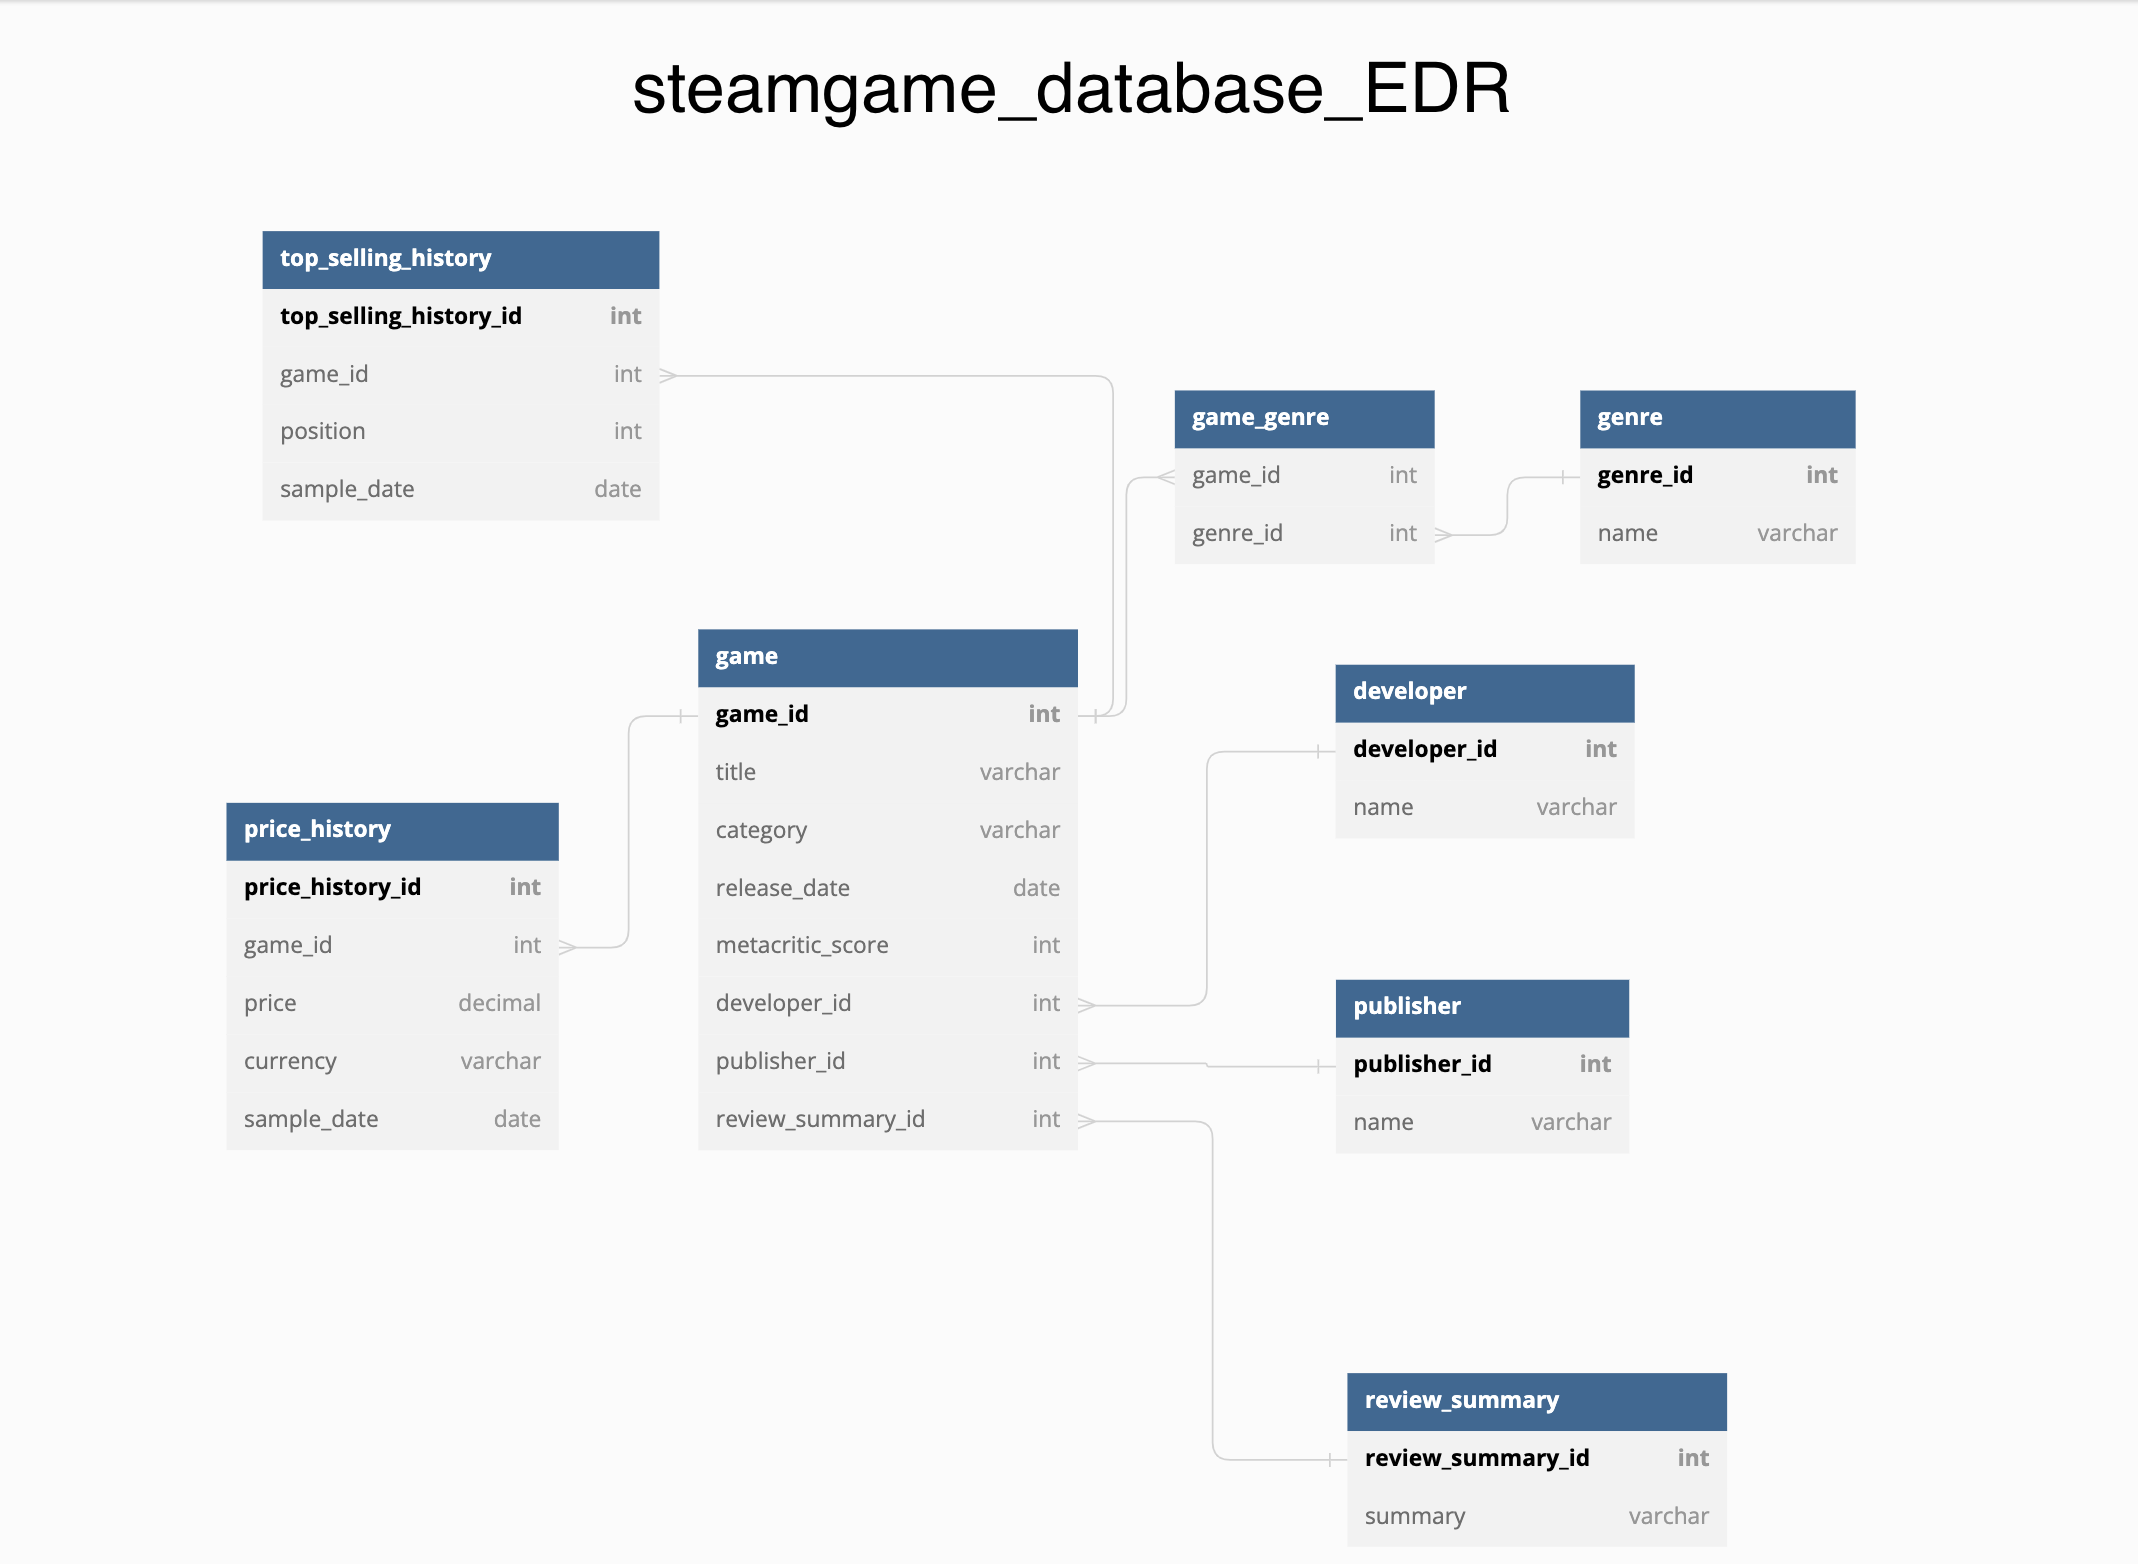
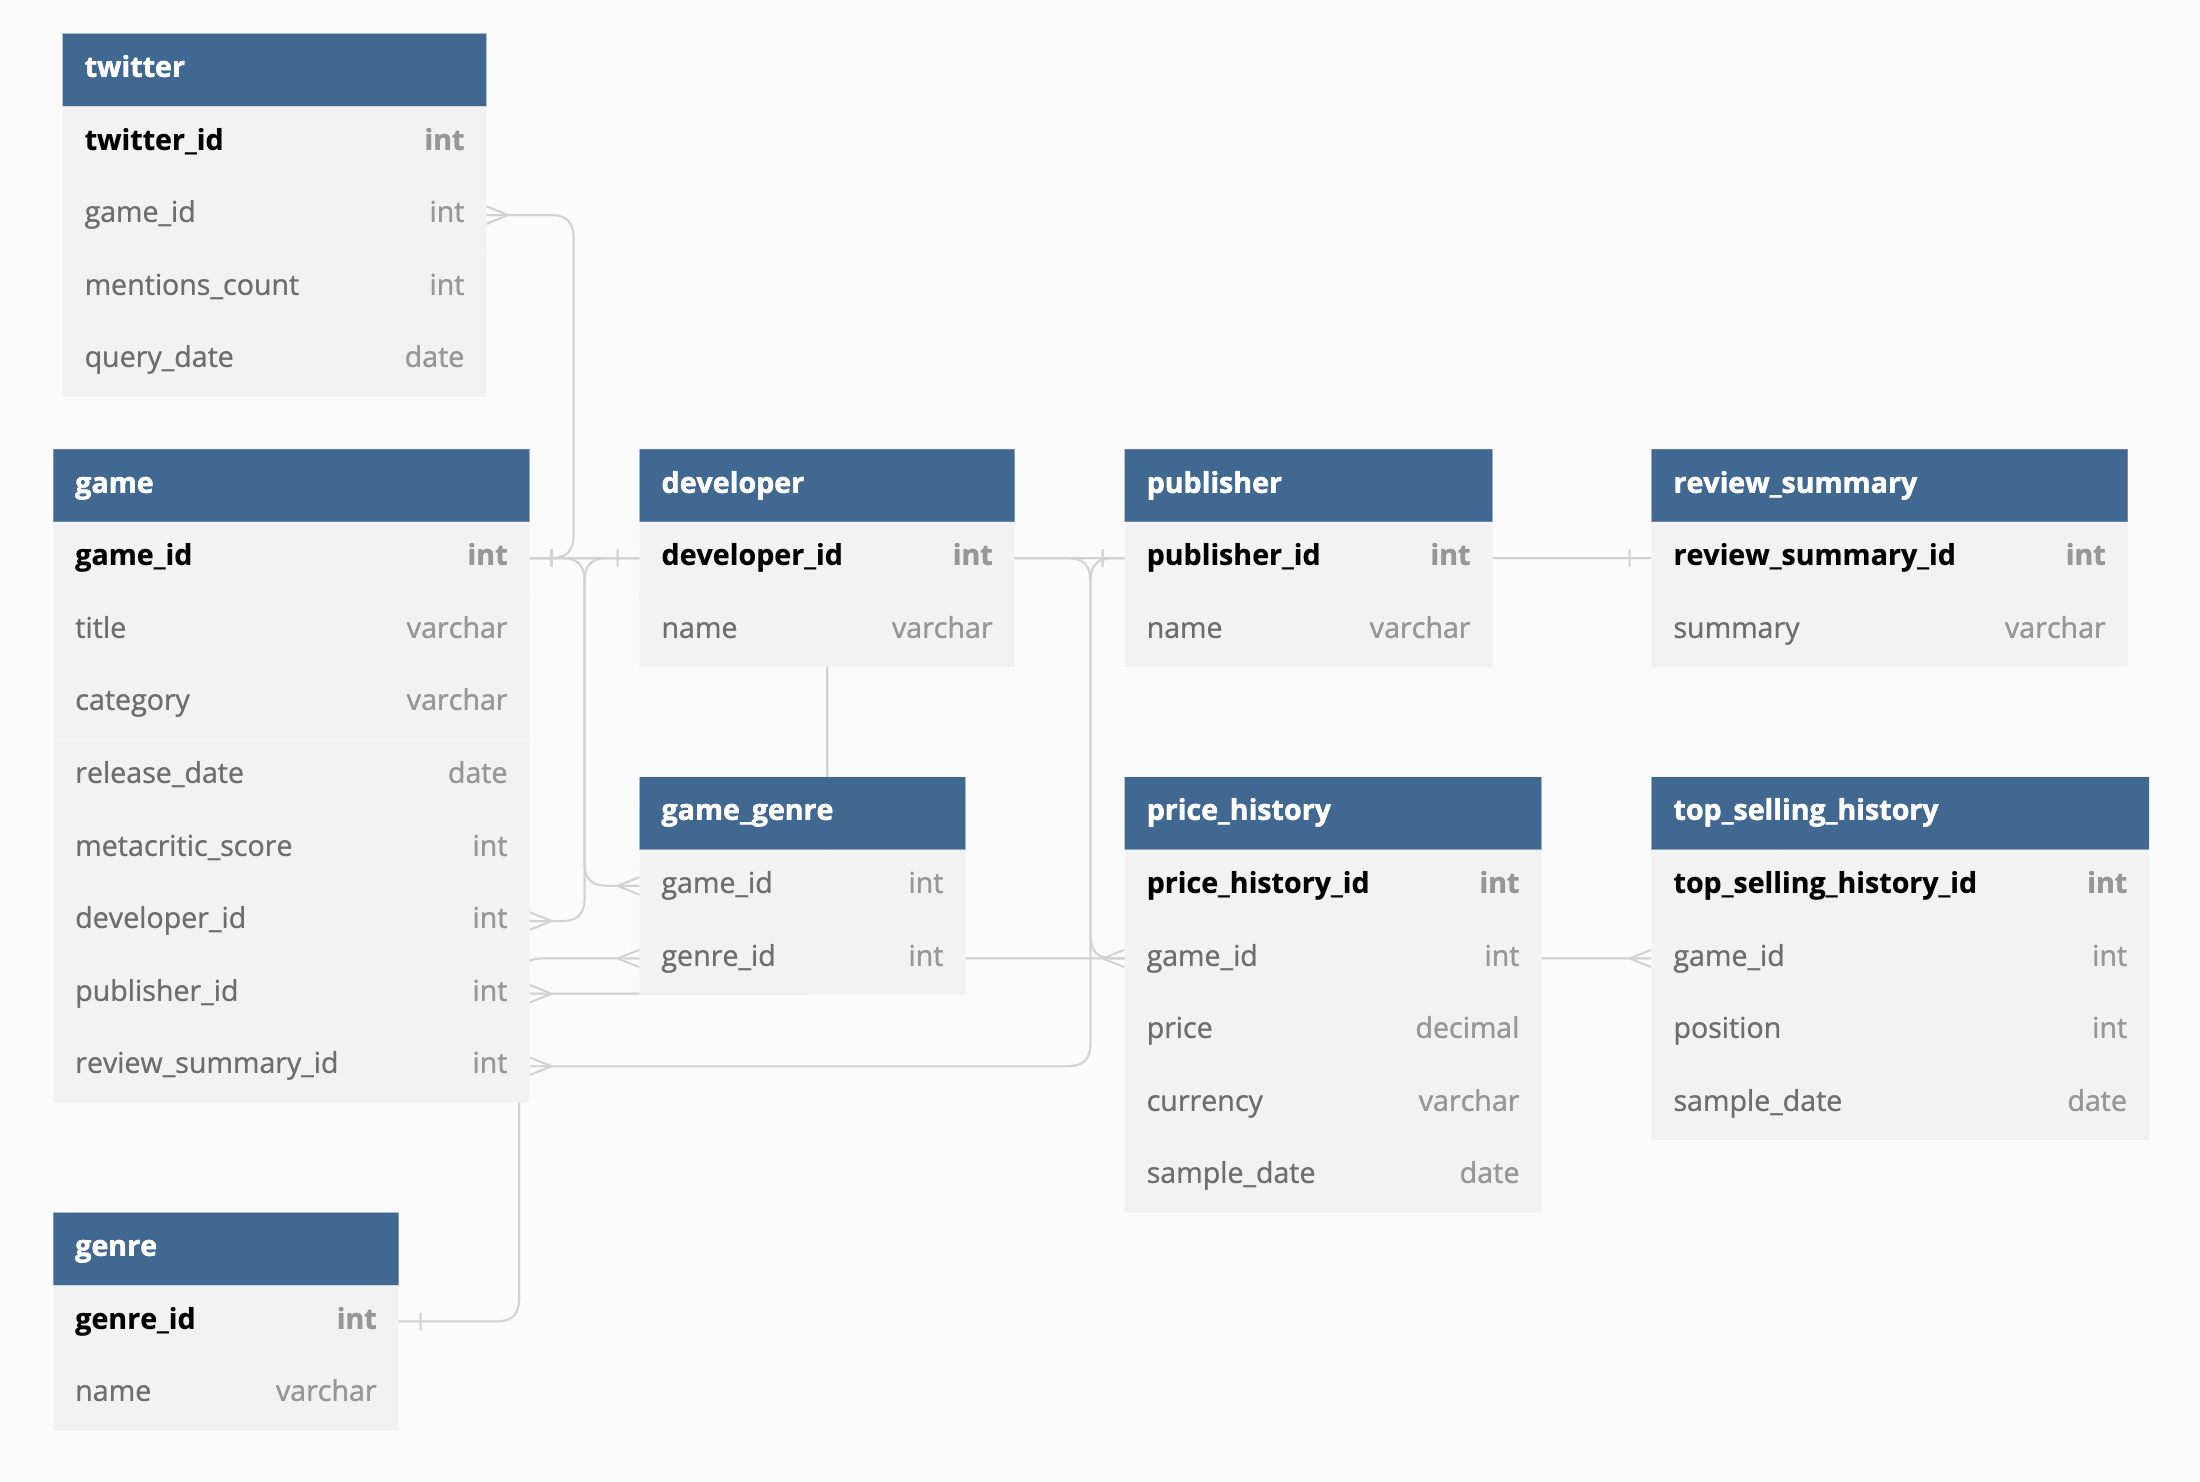
m4 twitter deplyment to the cloud

diff --git a/steam_twitter_query.py b/steam_twitter_query.py
@@ -1,0 +1,117 @@
+import json
+from requests_oauthlib import OAuth1
+import datetime
+import requests
+import re
+from steam_utils import logger_decorator
+
+
+# set twitter API settings
+CONSUMER_KEY = 'hQtk7NqtvWbBdvPqLaSthxIEq'
+CONSUMER_SECRET = '2GcdFggetiV5saFMY6HYUDE5Vv4JJCN32QlQ5H9U8GQdQNYdwk'
+ACCESS_TOKEN = '2280166748-3wPShETK9uATzc2VlXhL6OXxwT4lOJsHWnAkSKm'
+ACCESS_TOKEN_SECRET = 'diEARpNDFkSGmRtOhtfgfK1mOidHmnUfjt2kaUA4wk6Y4'
+API_URL = 'https://api.twitter.com/1.1/search/tweets.json'
+REQUEST_ACCEPTED_CODE = 200
+NUM_DAYS = 1
+
+
+@logger_decorator
+def get_oauth1_authentication():
+    """
+    Generates an OAuth1 object using the provided consumer key and consumer secret.
+
+    Returns:
+        OAuth1: An OAuth1 object used for authentication with the Twitter API.
+    """
+    oauth = OAuth1(client_key=CONSUMER_KEY,
+                   client_secret=CONSUMER_SECRET)
+    return oauth
+
+
+@logger_decorator
+def search_tweets(query: str):
+    """
+    Searches for recent tweets containing the given query.
+
+    Args:
+        query (str): The search query used to find tweets.
+
+    Returns:
+        int: The number of tweets found containing the search query.
+    """
+    now = datetime.datetime.now()
+    day_ago = now - datetime.timedelta(days=NUM_DAYS)
+    now_str = now.strftime("%Y-%m-%d")
+    day_ago_str = day_ago.strftime("%Y-%m-%d")
+
+    params = {
+        "q": query,
+        "count": 100,
+        "result_type": "recent",
+        "until": now_str,
+        "since": day_ago_str
+    }
+
+    total_mentions = 0
+    max_id = None
+
+    while True:
+        if max_id is not None:
+            params["max_id"] = max_id - 1
+
+        response = requests.get(API_URL, params=params, auth=get_oauth1_authentication())
+
+        if response.status_code != 200:
+            print("Failed to fetch tweets: %s" % response.text)
+            break
+
+        data_dict = json.loads(response.content)
+
+        for status in data_dict["statuses"]:
+            if ''.join(query).lower() in ''.join(status["text"]).lower():
+                total_mentions += 1
+
+        if "next_results" not in data_dict["search_metadata"]:
+            break
+
+        next_results = data_dict["search_metadata"]["next_results"]
+        max_id = int(re.search(r"max_id=(\d+)", next_results).group(1))
+
+    return total_mentions
+
+
+def clean_string(text: str) -> str:
+    """
+    Cleans the input text by removing special Unicode characters.
+
+    Args:
+        text (str): The input text to be cleaned.
+
+    Returns:
+        str: The cleaned text.
+    """
+    text = re.sub(r'[\u00AE\u2122\u00A9\u00B2\u00B3\u00B9\u2070-\u2079\u2080-\u2089\u207A-\u207F]', '', text)
+    return text
+
+
+def get_mentions_count(games):
+    """
+    Adds the mentions count and query date to the provided dictionary of games.
+
+    Args:
+        games (dict): A dictionary containing game names and their corresponding game_id and rank.
+
+    Returns:
+        dict: The enriched dictionary containing the game names, game_id, rank, mentions count, and query date.
+    """
+    query_time = datetime.datetime.now().strftime('%Y-%m-%d')
+
+    for game_name, game_data in games.items():
+        cleaned_game_name = clean_string(game_name)
+        game_data["mentions_count"] = search_tweets(cleaned_game_name)
+        game_data["query_date"] = query_time
+
+    return games
+
+

diff --git a/steam_twitter_table.py b/steam_twitter_table.py
@@ -1,0 +1,106 @@
+import mysql.connector
+from steam_twitter_query import get_mentions_count
+from steam_utils import logger_decorator
+
+
+@logger_decorator
+def connect_to_db(db_conf: dict):
+    """
+    Connects to the MySQL database using the provided configuration.
+
+    Args:
+        db_conf (dict): A dictionary containing database connection parameters.
+
+    Returns:
+        mysql.connector.connection.MySQLConnection: A connection to the MySQL database.
+    """
+    return mysql.connector.connect(**db_conf)
+
+
+@logger_decorator
+def get_top_games(db_connection):
+    """
+    Retrieves the top 10 games with unique game IDs from the MySQL database.
+
+    Args:
+        db_connection (mysql.connector.connection.MySQLConnection): A connection to the MySQL database.
+
+    Returns:
+        dict: A dictionary containing the top 10 games and their corresponding game_id and rank.
+    """
+    cursor = db_connection.cursor()
+    query = """
+    SELECT DISTINCT g.title, tsh.game_id, tsh.position
+    FROM top_selling_history tsh
+    INNER JOIN game g ON tsh.game_id = g.game_id
+    WHERE tsh.sample_date = (
+        SELECT MAX(tsh2.sample_date)
+        FROM top_selling_history tsh2
+        WHERE tsh2.game_id = tsh.game_id
+    )
+    ORDER BY tsh.position
+    LIMIT 10;
+    """
+    cursor.execute(query)
+    rows = cursor.fetchall()
+
+    top_games = {}
+    for row in rows:
+        game_name, game_id, position = row
+        top_games[game_name] = {"Id": game_id, "rank": position}
+
+    cursor.close()
+    return top_games
+
+
+@logger_decorator
+def create_or_update_twitter_table(db_connection, enriched_games):
+    """
+    Creates or updates the 'twitter' table in the MySQL database with the enriched games data.
+
+    Args:
+        db_connection (mysql.connector.connection.MySQLConnection): A connection to the MySQL database.
+        enriched_games (dict): A dictionary containing the enriched games data.
+    """
+    cursor = db_connection.cursor()
+    create_table_query = """
+    CREATE TABLE IF NOT EXISTS twitter (
+        id INT AUTO_INCREMENT PRIMARY KEY,
+        game_id INT,
+        mentions_count INT,
+        query_date DATE,
+        FOREIGN KEY (game_id) REFERENCES game(game_id)
+    );
+    """
+    cursor.execute(create_table_query)
+
+    for game_data in enriched_games.values():
+        insert_query = """
+        INSERT INTO twitter (game_id, mentions_count, query_date)
+        VALUES (%s, %s, %s)
+        ON DUPLICATE KEY UPDATE
+        id=id;
+        """
+        game_id = game_data["Id"]
+        mentions_count = game_data["mentions_count"]
+        query_date = game_data["query_date"]
+        cursor.execute(insert_query, (game_id, mentions_count, query_date))
+
+    db_connection.commit()
+    cursor.close()
+
+
+@logger_decorator
+def twitter_enrich(db_conf: dict):
+    """
+    Connects to the MySQL database, retrieves the top 10 games, enriches the games with Twitter data,
+    and updates the 'twitter' table in the MySQL database with the enriched games data.
+
+    Args:
+        db_conf (dict): A dictionary containing database connection parameters.
+    """
+    db_connection = connect_to_db(db_conf)
+    top_games = get_top_games(db_connection)
+    enriched_games = get_mentions_count(top_games)
+    create_or_update_twitter_table(db_connection, enriched_games)
+    db_connection.close()

diff --git a/steam_main.py b/steam_main.py
@@ -3,6 +3,7 @@ from steam_parser import parse_args
 from steam_sql_tables import deploy_db
 from steam_populate_database import populate_database
 from steam_create_classes import create_game_catalogue
+from steam_twitter_table import twitter_enrich
 from steam_utils import get_logger, logger_decorator
 
 
@@ -38,7 +39,8 @@ def main():
 
     This function reads the configuration file, runs the web scraper to collect
     information about the top-selling games on Steam, creates a catalog object,
-    and populates the MySQL database with the scraped data.
+    and populates the MySQL database with the scraped data. Enriches database
+    with data from twitter if requested by user.
     """
     args = parse_args()
 
@@ -50,6 +52,8 @@ def main():
         deploy_db(config['db_conf'], config['alch_conf']['database'])
 
         populate_database(catalogue, config['alch_conf'])
+    if args.tw == 'y':
+        twitter_enrich(config['db_conf'])
 
 
 if __name__ == '__main__':

diff --git a/steam_parser.py b/steam_parser.py
@@ -22,6 +22,8 @@ def parse_args():
                         help='Number of games to scrape. Default: 100')
     parser.add_argument('--db', type=str, choices=['y', 'n'], default='y',
                         help='Whether to add scraping results to a database. Choose from: y or n. Default: y')
+    parser.add_argument('--tw', type=str, choices=['y', 'n'], default='n',
+                        help='Whether to enrich database with data from twitter. Choose from: y or n. Default: n')
 
     args = parser.parse_args()
 

diff --git a/README.md b/README.md
@@ -44,9 +44,21 @@ The Steam scraper program consists of several Python scripts that work together 
    - `config_path`: Path to the configuration file (mandatory).
    - `num_of_games`: Number of games to scrape (default: 100).
    - `category_url`: URL of the category to scrape (default: top-selling games URL).
-   - `use_database`: Set this flag to `y` or `n` store the scraped data in a database (default: `y`).
+   - `db`: Set this flag to `y` or `n` store the scraped data in a database (default: `y`).
+   - `tw`: Set this flag to `y` or `n` enrich database with data from twitter (default: `n`).
 
-4. If needed adjust, the required scraping parameters (number of games to scrape, category to scrape, and whether to store the scraped data in a database).
+4. If needed adjust, the required scraping parameters (number of games to scrape, category to scrape,  
+   and whether to store the scraped data in a database).
+
+## Recommended application
+
+The best case application is to run scraper every set period of rime to track price changes 
+for a game in a particular category. 
+This will allow to build a comprehensive track of price changes and rating changes for a game.
+The specific drawback of this scraper is that it does not take into account the fact that a game 
+can belong to multiple categories at the same time so every time the scraper encounters such game, 
+its record in the database is rewritten with new category and different top-selling position from a new category,
+which mixes up observations.
 
 ## Database Schema
 
@@ -94,8 +106,13 @@ The database schema consists of the following tables:
    - `game_id`: Foreign key referencing the `game` table.
    - `position`: The position of the game in the top-selling list.
    - `sample_date`: The date when the position was sampled.
+   
+9. **twitter**: Tis table contains information about number of mentions on Twitter for top ten games on a given date.
+   - `game_id`: Foreign key referencing the `game` table.
+   - `mentions_count`: Numver of mentions for a game on a given query date.
+   - `query date`: A date when the query sampling the number of mentions of a game om Twitter was made.
+
+![steamgame_database_edr.png](/Users/Pleasantville/ITC_Studies/Python/webscraping/steam/steamgame_database_edr.png)
 
 **The code to deploy and populate of the database using mysql.connector and SQLAlchemy is provided in detail in 
 the files steam_sql_tables.py and steam_populate_database.py
-
-![steamgame_database_edr.png](..%2F..%2F..%2F..%2FDesktop%2Fsteamgame_database_edr.png)
